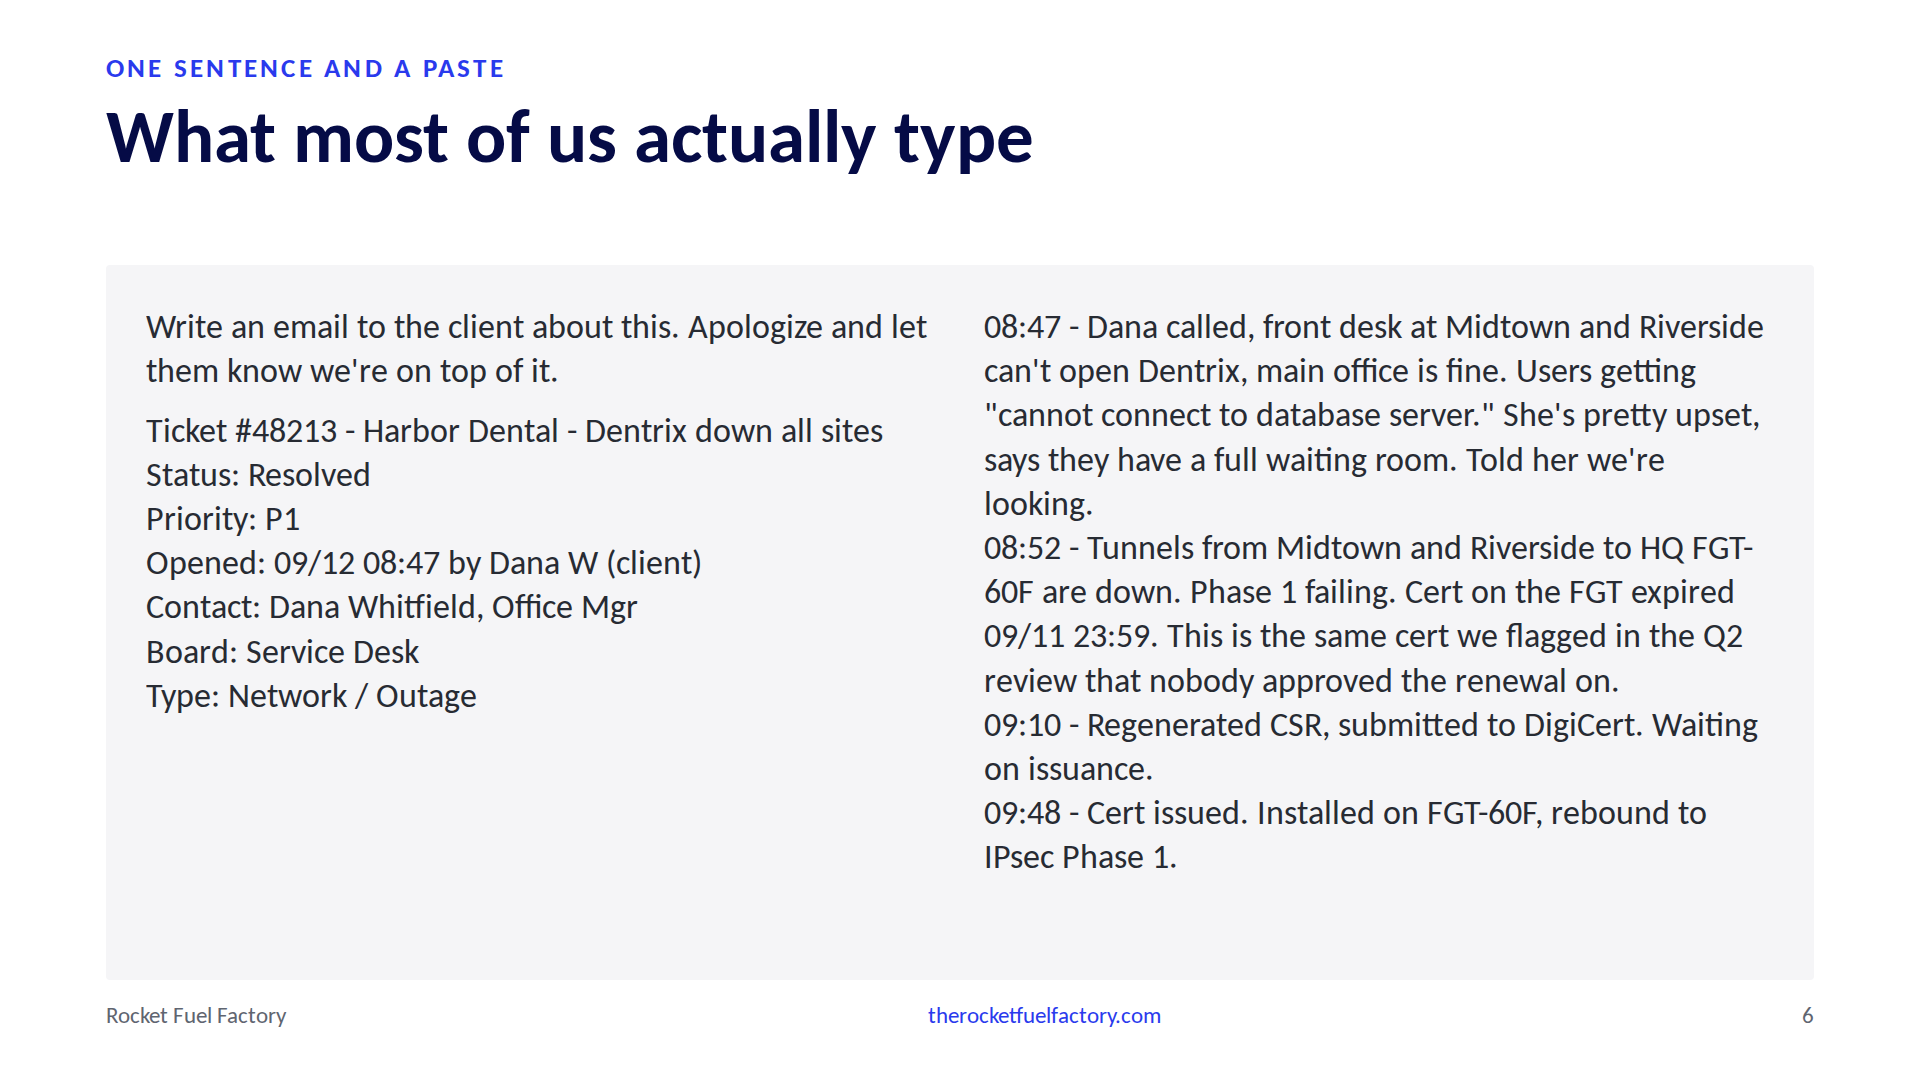
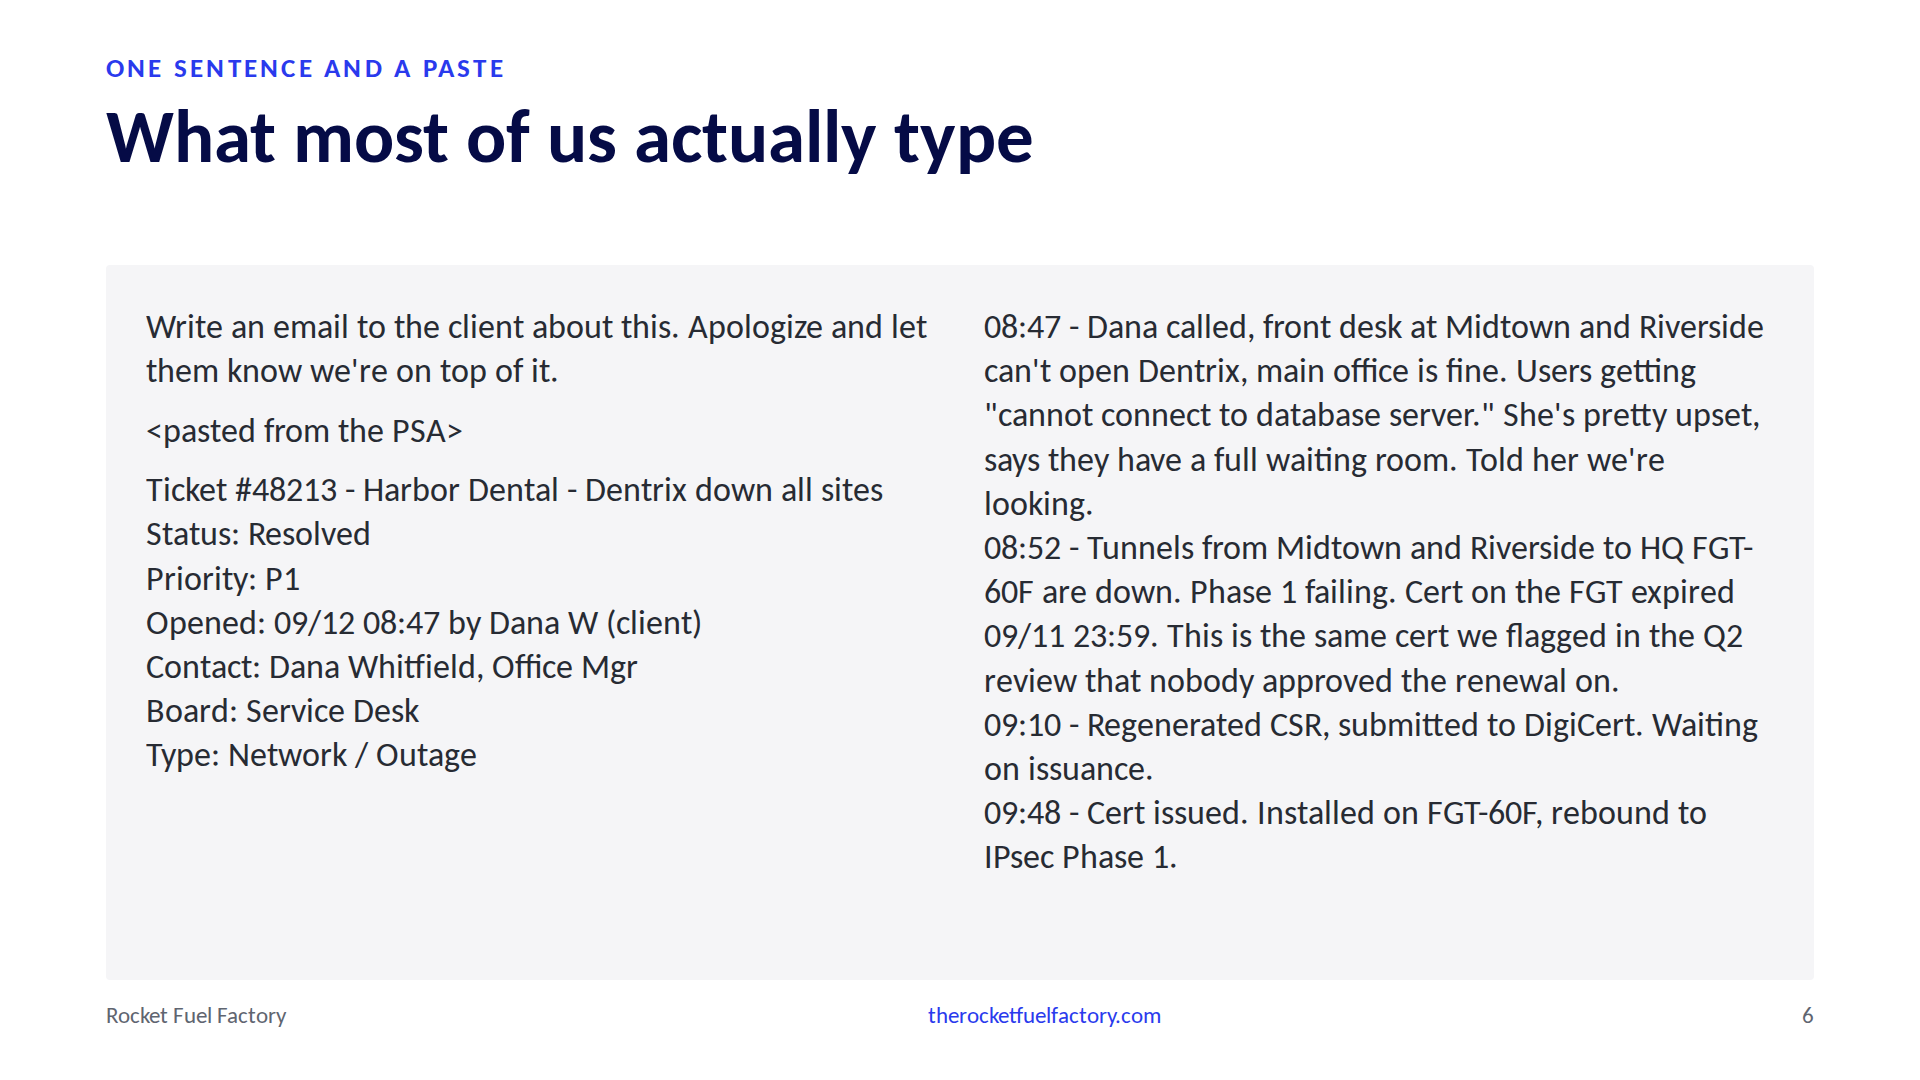
Slide 6: paste marker, 34px text

Changed region(s): [[0.0625, 0.3667, 0.4688, 0.7333]]

diff --git a/src/components/slides/006-DemoWeak.jsx b/src/components/slides/006-DemoWeak.jsx
@@ -3,6 +3,10 @@ import { weakPrompt } from '../../data/demo.js'
 
 // What owners actually do: one line, then paste the PSA ticket. Full width so
 // the ticket is recognizable from the back row. Resolution block omitted.
+// The paste marker is slide-only; the data file stays verbatim.
+const lines = weakPrompt.split('\n')
+const shown = [lines[0], '', '<pasted from the PSA>', '', ...lines.slice(2, 14)].join('\n')
+
 export default function DemoWeak({ slideNumber }) {
   return (
     <PromptOutputSlide
@@ -12,8 +16,7 @@ export default function DemoWeak({ slideNumber }) {
       slideNumber={slideNumber}
       only="prompt"
       askLabel=""
-      prompt={weakPrompt}
-      promptLines={[0, 14]}
+      prompt={shown}
       promptFontSize={34}
       promptColumns={2}
     />
